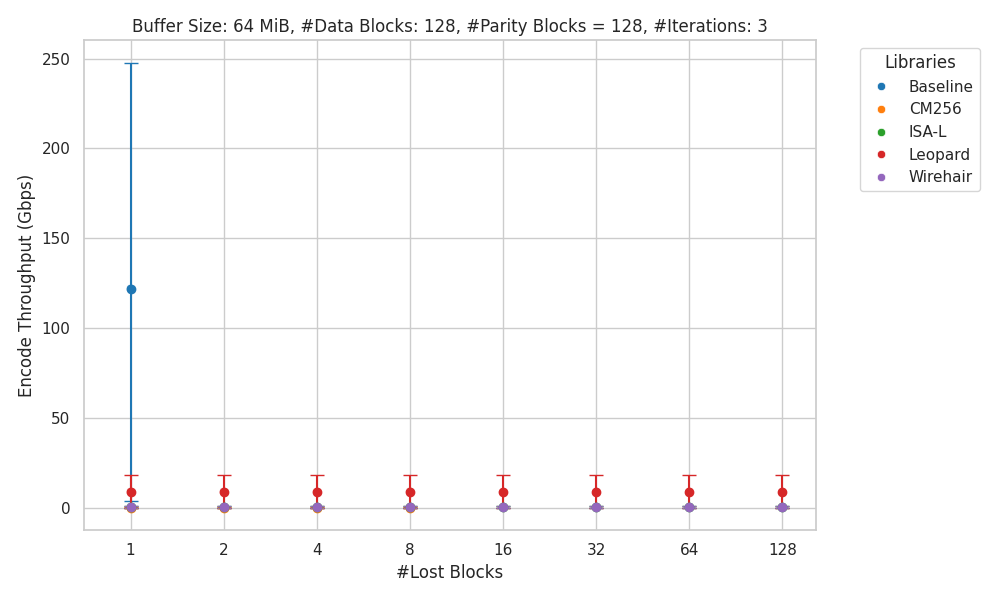
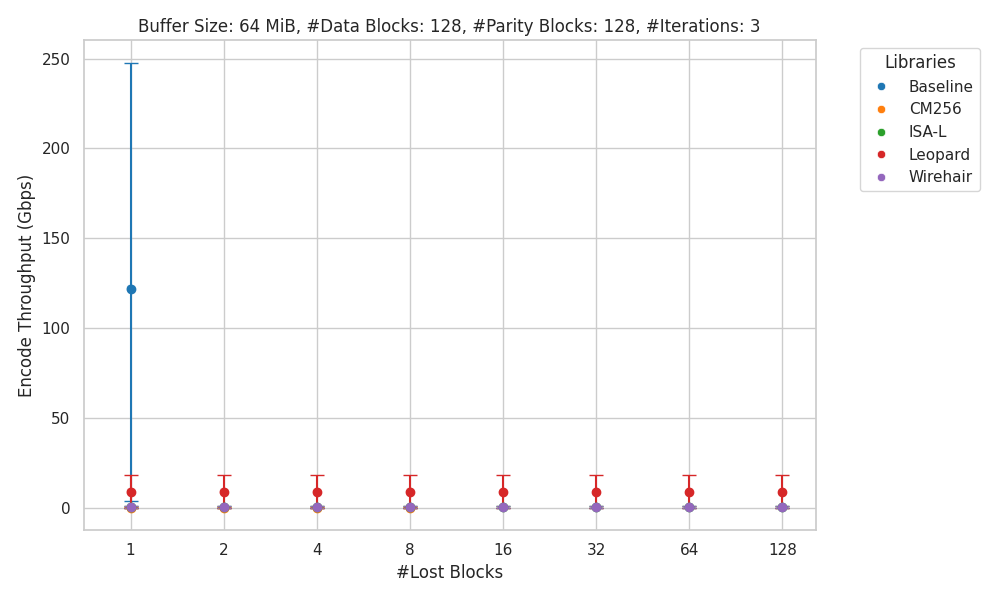
Finished rewriting python scripts and displaying new information

Changed region(s): [[0.124, 0.03, 0.775, 0.06]]

diff --git a/scripts/plot_benchmark_results.py b/scripts/plot_benchmark_results.py
@@ -16,12 +16,20 @@ def ensure_output_directory() -> None:
   """Ensure the output directory exists."""
   os.makedirs(OUTPUT_DIR, exist_ok=True)
 
+def get_plot_title(df: pd.DataFrame, plot_id: int) -> str:
+  """Generate a  plot title containing all the constant parameters."""
+  first_row = df.iloc[0]
+  titles = {
+    0: f"#Data Blocks: {first_row['num_data_blocks']}, #Redundancy Ratio: {first_row['redundancy_ratio']}, #Lost Blocks: {first_row['num_lost_blocks']}, #Iterations: {first_row['num_iterations']}",
+    1: f"Buffer Size: {first_row['tot_data_size_MiB']} MiB, #Data Blocks: {first_row['num_data_blocks']}, #Lost Blocks: {first_row['num_lost_blocks']}, #Iterations: {first_row['num_iterations']}",
+    2: f"Buffer Size: {first_row['tot_data_size_MiB']} MiB, #Data Blocks: {first_row['num_data_blocks']}, #Parity Blocks: {int(first_row['num_parity_blocks'])}, #Iterations: {first_row['num_iterations']}"
+  }
+  return titles.get(plot_id, "ERROR: Invalid plot_id")
 
 
-def plot_scatter(dfs: dict[int, pd.DataFrame], x_col: str, y_col: str, x_label: str, y_label: str, file_name: str, plot_id: int):
-  """Helper function to generate and save scatter plots."""
+def make_scatter_plot(dfs: dict[int, pd.DataFrame], x_col: str, y_col: str, x_label: str, y_label: str, file_name: str, plot_id: int) -> None:
+  """Generate and save scatter plots."""
   df = dfs[plot_id]
-
   sns.set_theme(style="whitegrid")
   plt.figure(figsize=(10, 6))
 
@@ -31,43 +39,23 @@ def plot_scatter(dfs: dict[int, pd.DataFrame], x_col: str, y_col: str, x_label: 
   plt.xscale("log")
   plt.yscale("linear")
   plt.legend(title="Libraries", bbox_to_anchor=(1.05, 1), loc="upper left")
-  plt.title(get_plot_title(dfs, plot_id), fontsize=12)
+  plt.title(get_plot_title(df, plot_id), fontsize=12)
 
+  # Set proper x-ticks
   ax = plt.gca()
   x_ticks = sorted(df[x_col].unique())
   ax.set_xticks(x_ticks)
   ax.set_xticklabels([f"{x}" for x in x_ticks])
 
-
-  # Plot the confidence intervals
+  # Plot confidence intervals (has to be done with a loop, to ensure the correct color)
   for name, group in df.groupby("name"):
     plt.errorbar(group[x_col], group[y_col],
                  yerr=[group[f"{y_col}_lower"].to_numpy(), group[f"{y_col}_upper"].to_numpy()],
-                 fmt='o', color=ax.get_legend().legend_handles[df["name"].unique().tolist().index(name)].get_color(), capsize=5)
-
+                 fmt='o', color=ax.get_legend().legend_handles[df["name"].unique().tolist().index(name)].get_color(), capsize=5
+                 )
   plt.tight_layout()
   plt.savefig(os.path.join(OUTPUT_DIR, file_name))
   plt.close()
-
-  
-
-def get_plot_title(dfs: dict[int, pd.DataFrame], plot_id:int):
-  """Generate a plot title containing all the constant parameters."""
-  df = dfs[plot_id]
-  num_data_blocks = df.iloc[0]["num_data_blocks"]
-  redundancy_ratio = df.iloc[0]["redundancy_ratio"]
-  num_lost_blocks = df.iloc[0]["num_lost_blocks"]
-  num_iterations = df.iloc[0]["num_iterations"]
-  buffer_size_mib = df.iloc[0]["tot_data_size_MiB"]
-
-  if plot_id == 0:
-    return f"#Data Blocks: {num_data_blocks}, #Redundancy Ratio: {redundancy_ratio}, #Lost Blocks: {num_lost_blocks}, #Iterations: {num_iterations}"
-  elif plot_id == 1:
-    return f"Buffer Size: {buffer_size_mib} MiB, #Data Blocks: {num_data_blocks}, #Lost Blocks: {num_lost_blocks}, #Iterations: {num_iterations}" 
-  elif plot_id == 2:
-    return f"Buffer Size: {buffer_size_mib} MiB, #Data Blocks: {num_data_blocks}, #Parity Blocks = {int(num_data_blocks*redundancy_ratio)}, #Iterations: {num_iterations}"
-  
-  return "ERROR: Invalid plot_id"
 
 
 
@@ -75,62 +63,57 @@ if __name__ == "__main__":
   ensure_output_directory()
   df = pd.read_csv(INPUT_FILE)
 
-  # Clean up 'name' column by removing the '/iterations:...' part
+  # Process and clean data
   df["name"] = df["name"].str.split("/", n=1).str[0]
-
-  # Remove rows where corruption occured
   df = df[df["err_msg"].isna()]
 
-  # Get additional columns 
-  df["time_ms"] = df["time_ns"] / 1e6
+  # Compute additional columns 
   df["encode_time_ms"] = df["encode_time_ns"] / 1e6
   df["decode_time_ms"] = df["decode_time_ns"] / 1e6
   df["tot_data_size_MiB"] = df["tot_data_size_B"] // (1024 * 1024)
-  df["throughput_Gbps"] = (df["tot_data_size_B"] * 8 / 1e9) / (df["time_ns"] / 1e9)
 
 
-  # Compute the confidence  intervals per row for the throughput and time columns
-  # The formula used is CI = mean +/- z * (stddev / sqrt(n))
+  # Compute confidence intervals
+  # CI = mean +/- z * (stddev / sqrt(n))
   z = 1.96 # 95% confidence interval
 
-  df["encode_time_ms_lower"] = (df["encode_time_ns"] - z * (df["encode_time_stddev_ns"] / np.sqrt(df["num_iterations"]))) / 1e6
-  df["encode_time_ms_upper"] = (df["encode_time_ns"] + z * (df["encode_time_stddev_ns"] / np.sqrt(df["num_iterations"]))) / 1e6
+  for col in ["encode_time_ns", "decode_time_ns", "encode_throughput_Gbps", "decode_throughput_Gbps"]:
+    df[f"{col}_lower"] = df[col] - z * (df[f"{col}_stddev"] / np.sqrt(df["num_iterations"]))
+    df[f"{col}_upper"] = df[col] + z * (df[f"{col}_stddev"] / np.sqrt(df["num_iterations"]))
 
-  df["decode_time_ms_lower"] = (df["decode_time_ns"] - z * (df["decode_time_stddev_ns"] / np.sqrt(df["num_iterations"]))) / 1e6
-  df["decode_time_ms_upper"] = (df["decode_time_ns"] + z * (df["decode_time_stddev_ns"] / np.sqrt(df["num_iterations"]))) / 1e6
+  # Convert the time Confidence interval columns to milliseconds
+  for col in ["encode_time", "decode_time"]:
+    df.rename(columns={f"{col}_ns_lower": f"{col}_ms_lower", f"{col}_ns_upper": f"{col}_ms_upper"}, inplace=True)
+    df[f"{col}_ms_lower"] = df[f"{col}_ms_lower"] / 1e6
+    df[f"{col}_ms_upper"] = df[f"{col}_ms_upper"] / 1e6
 
-  df["encode_throughput_Gbps_lower"] = (df["encode_throughput_Gbps"] - z * (df["encode_throughput_stddev_Gbps"] / np.sqrt(df["num_iterations"])))
-  df["encode_throughput_Gbps_upper"] = (df["encode_throughput_Gbps"] + z * (df["encode_throughput_stddev_Gbps"] / np.sqrt(df["num_iterations"])))
-
-  df["decode_throughput_Gbps_lower"] = (df["decode_throughput_Gbps"] - z * (df["decode_throughput_stddev_Gbps"] / np.sqrt(df["num_iterations"])))
-  df["decode_throughput_Gbps_upper"] = (df["decode_throughput_Gbps"] + z * (df["decode_throughput_stddev_Gbps"] / np.sqrt(df["num_iterations"])))
-
-  
-  
   dfs = {plot_id: group for plot_id, group in df.groupby("plot_id")}
 
-  # X: Buffer Size, Y: Encode/Decode Time
-  plot_scatter(dfs, "tot_data_size_MiB", "encode_time_ms", "Buffer Size (MiB)", "Encode Time (ms)", "buffersize_vs_encodetime.png", 0)
-  plot_scatter(dfs, "tot_data_size_MiB", "decode_time_ms", "Buffer Size (MiB)", "Decode Time (ms)", "buffersize_vs_decodetime.png", 0)
+  # Define plot parameters
+  plot_params = [
+    # X: Buffer Size, Y: Encode/Decode Time
+    ("tot_data_size_MiB", "encode_time_ms", "Buffer Size (MiB)", "Encode Time (ms)", "buffersize_vs_encodetime.png", 0),
+    ("tot_data_size_MiB", "decode_time_ms", "Buffer Size (MiB)", "Decode Time (ms)", "buffersize_vs_decodetime.png", 0),
+    # X: Buffer Size, Y: Encode/Decode Throughput
+    ("tot_data_size_MiB", "encode_throughput_Gbps", "Buffer Size (MiB)", "Encode Throughput (Gbps)", "buffersize_vs_encodethroughput.png", 0),
+    ("tot_data_size_MiB", "decode_throughput_Gbps", "Buffer Size (MiB)", "Decode Throughput (Gbps)", "buffersize_vs_decodethroughput.png", 0),
 
-  # X: Buffer Size, Y: Encode/Decode Throughput
-  plot_scatter(dfs, "tot_data_size_MiB", "encode_throughput_Gbps", "Buffer Size (MiB)", "Encode Throughput (Gbps)", "buffersize_vs_encodethroughput.png", 0)
-  plot_scatter(dfs, "tot_data_size_MiB", "decode_throughput_Gbps", "Buffer Size (MiB)", "Decode Throughput (Gbps)", "buffersize_vs_decodethroughput.png", 0)
+    # X: Num Parity Blocks, Y: Encode/Decode Time
+    ("num_parity_blocks", "encode_time_ms", "#Parity Blocks", "Encode Time (ms)", "parityblocks_vs_encodetime.png", 1),
+    ("num_parity_blocks", "decode_time_ms", "#Parity Blocks", "Decode Time (ms)", "parityblocks_vs_decodetime.png", 1),
+    # X: Num Parity Blocks, Y: Encode/Decode Throughput
+    ("num_parity_blocks", "encode_throughput_Gbps", "#Parity Blocks", "Encode Throughput (Gbps)", "parityblocks_vs_encodethroughput.png", 1),
+    ("num_parity_blocks", "decode_throughput_Gbps", "#Parity Blocks", "Decode Throughput (Gbps)", "parityblocks_vs_decodethroughput.png", 1),
 
 
-  # X: Num Parity Blocks, Y: Encode/Decode Time
-  plot_scatter(dfs, "num_parity_blocks", "encode_time_ms", "#Parity Blocks", "Encode Time (ms)", "parityblocks_vs_encodetime.png", 1)
-  plot_scatter(dfs, "num_parity_blocks", "decode_time_ms", "#Parity Blocks", "Decode Time (ms)", "parityblocks_vs_decodetime.png", 1)
+    # X: Num Lost Blocks, Y: Encode/Decode Time
+    ("num_lost_blocks", "encode_time_ms", "#Lost Blocks", "Encode Time (ms)", "lostblocks_vs_encodetime.png", 2),
+    ("num_lost_blocks", "decode_time_ms", "#Lost Blocks", "Decode Time (ms)", "lostblocks_vs_decodetime.png", 2),
+    # X: Num Lost Blocks, Y: Encode/Decode Throughput
+    ("num_lost_blocks", "encode_throughput_Gbps", "#Lost Blocks", "Encode Throughput (Gbps)", "lostblocks_vs_encodethroughput.png", 2),
+    ("num_lost_blocks", "decode_throughput_Gbps", "#Lost Blocks", "Decode Throughput (Gbps)", "lostblocks_vs_decodethroughput.png", 2)
+  ]
 
-  # X: Num Parity Blocks, Y: Encode/Decode Throughput
-  plot_scatter(dfs, "num_parity_blocks", "encode_throughput_Gbps", "#Parity Blocks", "Encode Throughput (Gbps)", "parityblocks_vs_encodethroughput.png", 1)
-  plot_scatter(dfs, "num_parity_blocks", "decode_throughput_Gbps", "#Parity Blocks", "Decode Throughput (Gbps)", "parityblocks_vs_decodethroughput.png", 1)
-
-
-  # X: Num Lost Blocks, Y: Encode/Decode Time
-  plot_scatter(dfs, "num_lost_blocks", "encode_time_ms", "#Lost Blocks", "Encode Time (ms)", "lostblocks_vs_encodetime.png", 2)
-  plot_scatter(dfs, "num_lost_blocks", "decode_time_ms", "#Lost Blocks", "Decode Time (ms)", "lostblocks_vs_decodetime.png", 2)
-
-  # X: Num Lost Blocks, Y: Encode/Decode Throughput
-  plot_scatter(dfs, "num_lost_blocks", "encode_throughput_Gbps", "#Lost Blocks", "Encode Throughput (Gbps)", "lostblocks_vs_encodethroughput.png", 2)
-  plot_scatter(dfs, "num_lost_blocks", "decode_throughput_Gbps", "#Lost Blocks", "Decode Throughput (Gbps)", "lostblocks_vs_decodethroughput.png", 2)
+  # Generate plots
+  for params in plot_params:
+    make_scatter_plot(dfs, *params)

diff --git a/src/benchmark_result_writer.cpp b/src/benchmark_result_writer.cpp
@@ -28,14 +28,14 @@ BenchmarkCSVReporter::BenchmarkCSVReporter(const std::string& output_file, bool 
           << "time_ns,"
 
           << "encode_time_ns,"
-          << "encode_time_stddev_ns,"
+          << "encode_time_ns_stddev,"
           << "encode_throughput_Gbps,"
-          << "encode_throughput_stddev_Gbps,"
+          << "encode_throughput_Gbps_stddev,"
 
           << "decode_time_ns,"
-          << "decode_time_stddev_ns,"
+          << "decode_time_ns_stddev,"
           << "decode_throughput_Gbps,"
-          << "decode_throughput_stddev_Gbps\n";
+          << "decode_throughput_Gbps_stddev\n";
           
   }
 }
@@ -62,15 +62,15 @@ void BenchmarkCSVReporter::ReportRuns(const std::vector<Run>& runs) {
 
           
           << run.counters.find("encode_time_ns")->second.value << ","
-          << run.counters.find("encode_time_stddev_ns")->second.value << ","
+          << run.counters.find("encode_time_ns_stddev")->second.value << ","
           << run.counters.find("encode_throughput_Gbps")->second.value << ","
-          << run.counters.find("encode_throughput_stddev_Gbps")->second.value << ","
+          << run.counters.find("encode_throughput_Gbps_stddev")->second.value << ","
 
 
           << run.counters.find("decode_time_ns")->second.value << ","
-          << run.counters.find("decode_time_stddev_ns")->second.value << ","
+          << run.counters.find("decode_time_ns_stddev")->second.value << ","
           << run.counters.find("decode_throughput_Gbps")->second.value << ","
-          << run.counters.find("decode_throughput_stddev_Gbps")->second.value << "\n";
+          << run.counters.find("decode_throughput_Gbps_stddev")->second.value << "\n";
   }
 }
 

diff --git a/include/generic_benchmark_runner.h b/include/generic_benchmark_runner.h
@@ -130,14 +130,14 @@ static void BM_generic(benchmark::State& state, const BenchmarkConfig& config) {
   state.counters["num_parity_blocks"] = config.computed.num_recovery_blocks;
 
   state.counters["encode_time_ns"] = enc_time_mean;
-  state.counters["encode_time_stddev_ns"] = enc_time_stddev;
+  state.counters["encode_time_ns_stddev"] = enc_time_stddev;
   state.counters["encode_throughput_Gbps"] = enc_throughput;
-  state.counters["encode_throughput_stddev_Gbps"] = enc_throughput_stddev;
+  state.counters["encode_throughput_Gbps_stddev"] = enc_throughput_stddev;
 
   state.counters["decode_time_ns"] = dec_time_mean;
-  state.counters["decode_time_stddev_ns"] = dec_time_stddev;
+  state.counters["decode_time_ns_stddev"] = dec_time_stddev;
   state.counters["decode_throughput_Gbps"] = dec_throughput;
-  state.counters["decode_throughput_stddev_Gbps"] = dec_throughput_stddev;
+  state.counters["decode_throughput_Gbps_stddev"] = dec_throughput_stddev;
 }
 
 #endif // GENERIC_BENCHMARK_RUNNER_H
